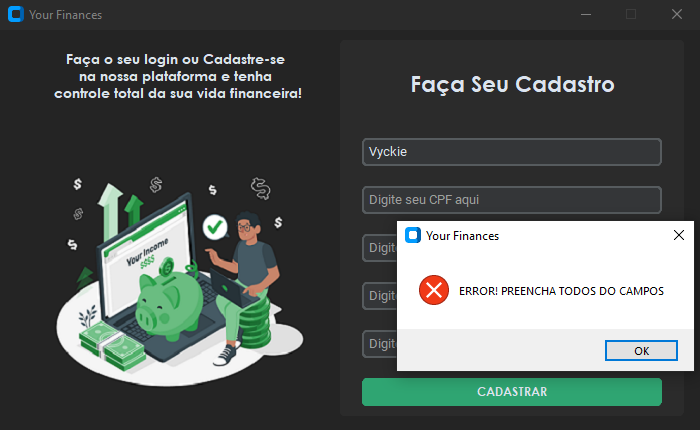
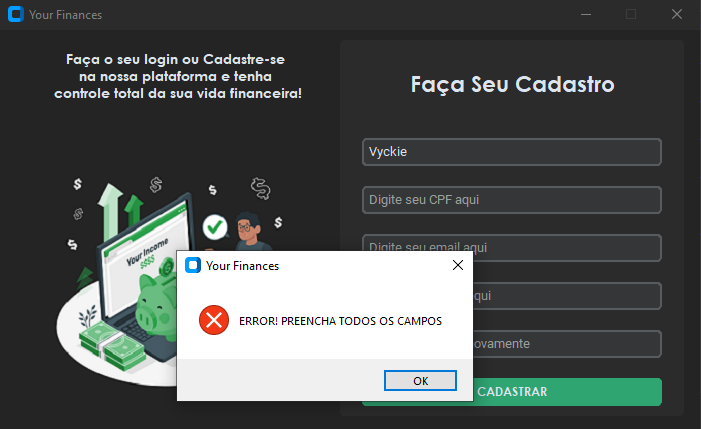
Verificacao do Login inompleto

diff --git a/app.py b/app.py
@@ -32,6 +32,8 @@ class BackEnd():
         self.desconectar_db()
     
     def cadastrarUsuario(self):
+    
+    
         self.nomeCadastro = self.nomeCadastro.get()
         self.cpfCadastro = self.cpfCadastro.get()
         self.emailCadastro = self.emailCadastro.get()
@@ -46,7 +48,7 @@ class BackEnd():
         
         try:
             if (self.nomeCadastro == "" or self.cpfCadastro == "" or self.emailCadastro == "" or self.senhaCadastro == "" or self.senhaConfirmacao == ""):
-                messagebox.showerror(title="Your Finances", message="ERROR! PREENCHA TODOS DO CAMPOS")
+                messagebox.showerror(title="Your Finances", message="ERROR! PREENCHA TODOS OS CAMPOS")
             elif (len(self.nomeCadastro) < 8):
                 messagebox.showerror(title="Your Finances", message="ERROR! PREENCHA COM NOME COMPLETO")
             elif (len(self.nomeCadastro) < 11):
@@ -66,11 +68,30 @@ class BackEnd():
                 self.telaLogin()
         except:
             messagebox.showerror(title="Your Finances", message="ERROR AO CADASTRAR\nTENTE NOVAMENTE")
+            self.desconectar_db()
+            
+    def verificarLogin(self):
+        self.emailLogin = self.emailLogin.get()
+        self.senhaLogin = self.senhaLogin.get()
         
-        self.conn.commit()
-        print("USUARIO CADASTRADO COM SUCESSO")
+        self.conectar_db()
         
-        self.desconectar_db()
+        self.cursor.execute("""
+            SELECT * FROM Usuarios WHERE (Email = ? AND Senha = ?)
+        """, (self.emailLogin, self.senhaLogin))
+        
+        self.verficaDados = self.cursor.fetchone()
+        
+        try:
+            if(self.emailLogin == "" or self.senhaLogin == ""):
+                messagebox.showinfo(title="Your Finances", message="PREENCHA TODO OS CAMPOS")     
+            elif(self.emailLogin in self.verficaDados and self.senhaLogin in self.verficaDados):
+                messagebox.showinfo(title="Your Finances", message="LOGADO COM SUCESSO")            
+        except:
+            messagebox.showinfo(title="Your Finances", message="ERROR! TENTE NOVAMENTE")
+            self.desconectar_db
+        
+        
 
 ctk.set_appearance_mode("Dark")
 ctk.set_default_color_theme("green")
@@ -111,7 +132,7 @@ class App(ctk.CTk, BackEnd):
         self.checkboxLogin = ctk.CTkCheckBox(self.frameLogin, text="Manter conectado", checkbox_width=10, checkbox_height=10, corner_radius=20)
         self.checkboxLogin.grid(row=3, column=0, padx=0, pady=20)
         
-        self.botaoLogin=ctk.CTkButton(self.frameLogin, width=300, fg_color="#F5F5F5", text_color="#7FC793", text="Logar".upper(), font=("Century Gothic", 12, "bold"))
+        self.botaoLogin=ctk.CTkButton(self.frameLogin, width=300, fg_color="#F5F5F5", text_color="#7FC793", text="Logar".upper(), font=("Century Gothic", 12, "bold"), command=self.verificarLogin)
         self.botaoLogin.grid(row=4, column=0, padx=10, pady=10)
         
         self.botaoCadastro=ctk.CTkButton(self.frameLogin, width=300, text="Cadastre-se".upper(), font=("Century Gothic", 12, "bold"), command=self.telaCadastro)
